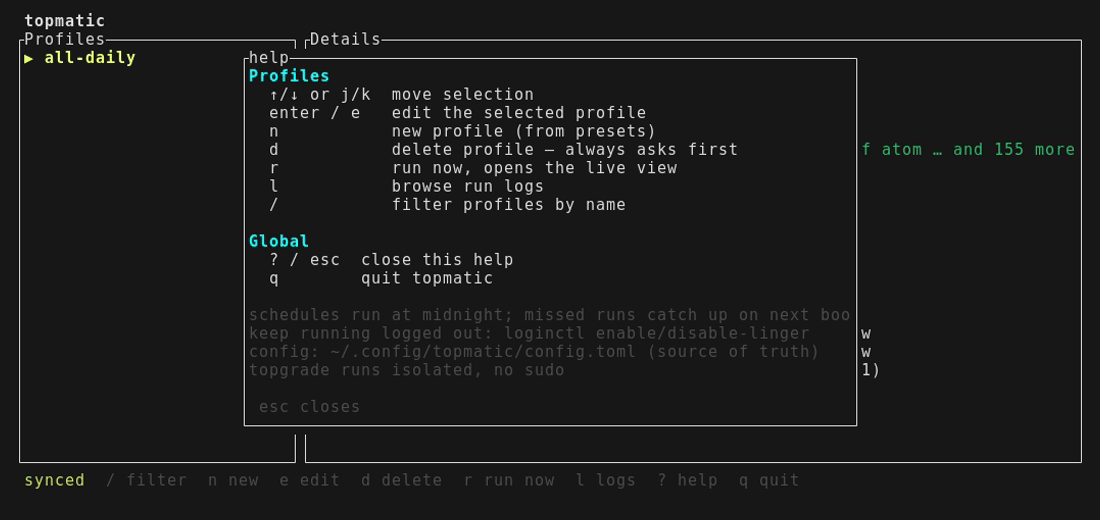
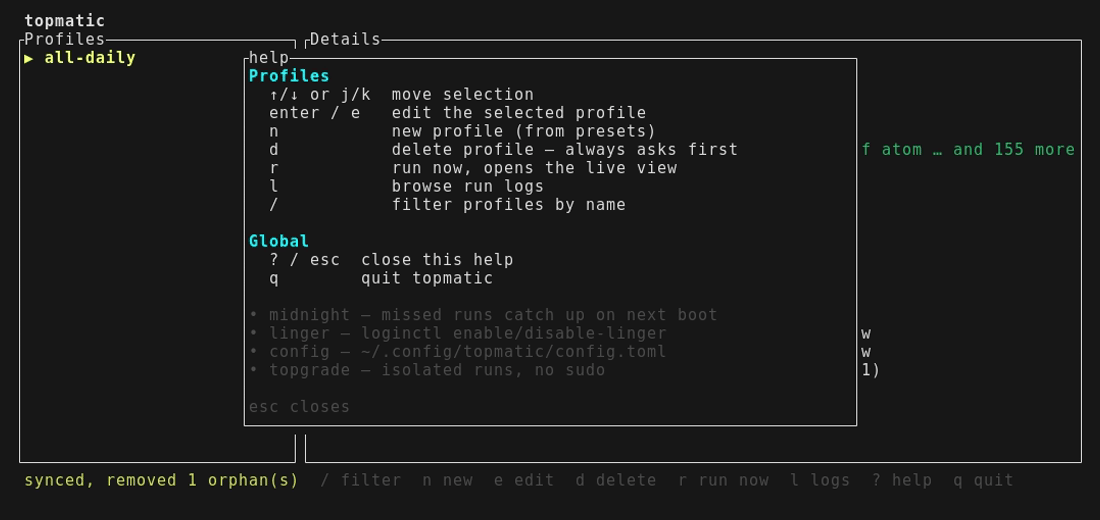
Condense dashboard help into topic bullets and align the overlay close hint
The four note lines read as terse topic bullets with no semicolons and stay
within the overlay column budget while keeping the linger guidance token.
The read-only 'esc closes' hint lost its stray leading space so it aligns
with the body content; the render test pins that alignment. help.png is
re-recorded against the freshly built binary.

diff --git a/src/tui/views.rs b/src/tui/views.rs
@@ -222,19 +222,19 @@ pub(crate) fn dashboard_help() -> Vec<Line<'static>> {
         lines.extend(group_lines(group));
     }
     lines.push(Line::from(Span::styled(
-        "schedules run at midnight; missed runs catch up on next boot",
+        "• midnight — missed runs catch up on next boot",
         Style::new().fg(Color::DarkGray),
     )));
     lines.push(Line::from(Span::styled(
-        "keep running logged out: loginctl enable/disable-linger",
+        "• linger — loginctl enable/disable-linger",
         Style::new().fg(Color::DarkGray),
     )));
     lines.push(Line::from(Span::styled(
-        "config: ~/.config/topmatic/config.toml (source of truth)",
+        "• config — ~/.config/topmatic/config.toml",
         Style::new().fg(Color::DarkGray),
     )));
     lines.push(Line::from(Span::styled(
-        "topgrade runs isolated, no sudo",
+        "• topgrade — isolated runs, no sudo",
         Style::new().fg(Color::DarkGray),
     )));
     lines
@@ -400,6 +400,34 @@ mod tests {
             text.contains("loginctl enable/disable-linger"),
             "help must say how to control linger:\n{text}"
         );
+    }
+
+    #[test]
+    fn help_notes_are_concise_topics_without_semicolons() {
+        let text: String = dashboard_help()
+            .iter()
+            .flat_map(|line| line.iter().map(|s| s.content.as_ref()))
+            .collect::<Vec<_>>()
+            .join("\n");
+        assert!(
+            !text.contains(';'),
+            "notes should not use semicolons:\n{text}"
+        );
+        let bullets: Vec<String> = dashboard_help()
+            .iter()
+            .map(|line| line.iter().map(|s| s.content.as_ref()).collect::<String>())
+            .filter(|line| line.starts_with('•'))
+            .collect();
+        assert!(
+            bullets.len() >= 3,
+            "notes should read as concise topic bullets:\n{bullets:?}"
+        );
+        for bullet in &bullets {
+            assert!(
+                bullet.chars().count() <= 48,
+                "a note bullet should be terse (<=48 cols): {bullet:?}"
+            );
+        }
     }
 
     #[test]

diff --git a/src/tui/overlay.rs b/src/tui/overlay.rs
@@ -68,9 +68,9 @@ impl Overlay {
             body.push(line);
         }
         let hint = if self.options.is_empty() {
-            " esc closes"
+            "esc closes"
         } else {
-            " enter select · esc cancel"
+            "enter select · esc cancel"
         };
         body.push(Line::from(Span::styled(
             hint,
@@ -150,6 +150,11 @@ mod tests {
         assert!(
             visible.contains("esc closes"),
             "read-only overlay hint:\n{visible}"
+        );
+        let hint_row = rows.iter().find(|r| r.contains("esc closes")).unwrap();
+        assert!(
+            hint_row.contains("│esc closes"),
+            "hint aligns with the body content, one column after the border:\n{visible}"
         );
     }
 
